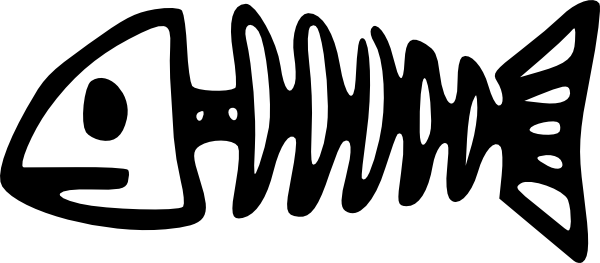
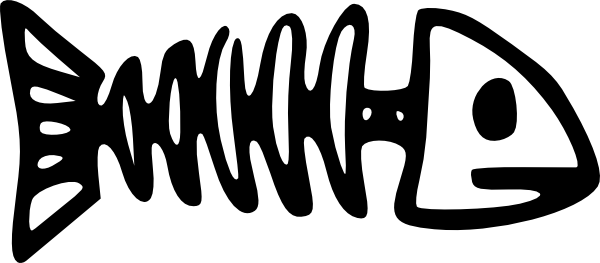
add multiple fish, random speed logic etc

diff --git a/src/components/Fish.vue b/src/components/Fish.vue
@@ -1,22 +1,66 @@
-<script setup lang="ts">
+<template>
+  <div class="fish" :style="fishCoordinates">
+    <div class="name">{{props.name}}</div>
+    <img :src="`/src/assets/${fishType}`" :alt="`${fishType}`" :style="flipFish" />
+    <div class="hunger-bar"></div>
+  </div>
+</template>
 
+<script setup lang="ts">
 import {computed, ref} from "vue";
 
-const y = ref(0);
-const x = ref(0);
+const y = ref(props.startY);
+const x = ref(props.startX);
 const modifiedY = ref(1)
 const modifiedX = ref(1)
 const isY = ref(true);
 const isX = ref(true);
 
+const props = defineProps<{
+  name: string
+  type: string
+  startX: number
+  startY: number
+}>();
+
+const generateRandomNumber = () => {
+  const numbers = [35, 45, 55, 65];
+  const randomIndex = Math.floor(Math.random() * numbers.length);
+  return numbers[randomIndex];
+}
+
+let randomSpeed = generateRandomNumber();
+
+const fishType = computed(() => {
+  let image = '';
+  switch(props.type) {
+    case 'golden':
+      image = 'goldfish.png';
+      break;
+    case 'blue':
+      image = 'bluefish.png';
+      break;
+    case 'ray':
+      image = 'mantaray.png';
+      break;
+    case 'puffer':
+      image =  'pufferfish.png';
+      break;
+  }
+  return image;
+})
+
 const swim = () => {
 
-  if (y.value >= 550) {
+  if (y.value >= 500) {
     isY.value = false
+    randomSpeed = generateRandomNumber();
+    console.log(randomSpeed);
   }
 
   if (y.value <= 0) {
     isY.value = true;
+    randomSpeed = generateRandomNumber();
   }
 
   if (isY.value) {
@@ -29,10 +73,12 @@ const swim = () => {
 
   if (x.value >= 850) {
     isX.value = false
+    randomSpeed = generateRandomNumber();
   }
 
   if (x.value <= 0) {
     isX.value = true;
+    randomSpeed = generateRandomNumber();
   }
 
   if (isX.value) {
@@ -46,24 +92,32 @@ const swim = () => {
 
 const fishCoordinates = computed(() => {
   return {
-    transform: `translate(${x.value}px, ${y.value}px)`
+    transform: `translate(${x.value}px, ${y.value}px`
   };
 });
 
-setInterval(swim, 50);
+const flipFish = computed(() => {
+  return {
+    transform: `${isX.value ? "" : " scaleX(-1)"}`, transition: 'transform 0.5s'
+  }
+})
+
+setInterval(swim, randomSpeed);
 
 </script>
-
-<template>
-<div class="fish" :style="fishCoordinates">
-  <img src="../assets/bluefish.png" alt="fish" />
-  <div class="hunger-bar"></div>
-</div>
-</template>
 
 <style scoped>
 .fish {
   width: 150px;
+  position: absolute;
+  //border: 3px solid black;
+}
+
+.name {
+  background-color: rgba(219,203,187, 0.8);
+  text-align: center;
+  font-size: 1.5rem;
+  border-radius: 50px;
 }
 
 .fish img {

diff --git a/src/components/FishTank.vue b/src/components/FishTank.vue
@@ -1,13 +1,33 @@
-<script setup lang="ts">
-
-import Fish from "@/components/Fish.vue";
-</script>
-
 <template>
-<div class="fish-tank">
-  <Fish />
-</div>
+  <div class="fish-tank" ref="fishTank">
+    <Fish v-for="fish in fishTankFish" :key="fish.name" :name="fish.name" :type="fish.type" :start-x="fish.startX"
+          :start-y="fish.startY" />
+    <button @click="addFish">add fish</button>
+  </div>
 </template>
+
+<script setup lang="ts">
+import Fish from "@/components/Fish.vue";
+import { ref } from "vue";
+
+interface FishData {
+  name: string,
+  type: string,
+  startX: number,
+  startY: number,
+}
+
+const fishTankFish = ref<FishData[]>([]);
+
+const addFish = () => {
+  fishTankFish.value.push({name: 'Joe', type: 'golden', startX: 600, startY: 50},
+      {name: 'Bob', type: 'blue', startX: 100, startY: 500},
+      {name: 'Dessia', type: 'ray', startX: 200, startY: 100},
+      {name: 'Wayne', type: 'puffer', startX: 300, startY: 200}
+  )
+}
+
+</script>
 
 <style scoped>
 .fish-tank {

diff --git a/src/App.vue b/src/App.vue
@@ -1,14 +1,15 @@
-<script setup lang="ts">
-import FishTank from "@/components/FishTank.vue";
-</script>
-
 <template>
+  <header>VUEquarium</header>
 <main>
   <FishTank />
 
 
 </main>
 </template>
+
+<script setup lang="ts">
+import FishTank from "@/components/FishTank.vue";
+</script>
 
 
 
